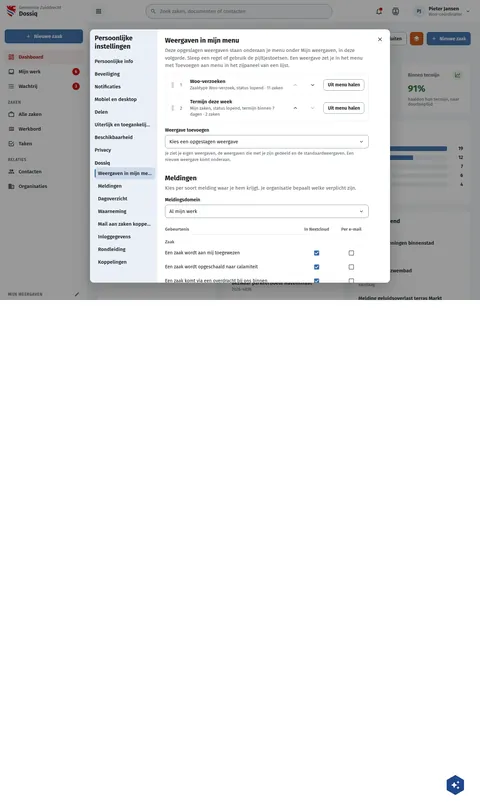
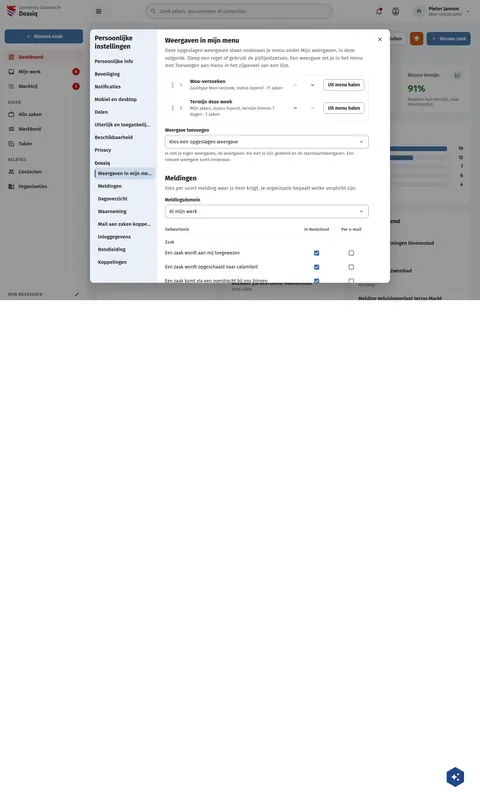
fix(screens): DqPersoonlijkeInstellingen draws pieter's Mail account chosen
Pieter now has a Mail account (id 4, pieter.jansen@zuiddrecht.example; DqZaakEmail's linked mails need it), so 'Mail aan zaken koppelen' draws it selected with the switch on, without the 'Voeg eerst een mailaccount toe' hint. Rebuilt with build.py (2421 -> 2396).

Assisted-by: ClaudeCode:claude-opus-5-5

diff --git a/preview/screens/boards/DqPersoonlijkeInstellingen.html b/preview/screens/boards/DqPersoonlijkeInstellingen.html
@@ -393,7 +393,7 @@ a{color:var(--sc-primary, #3669a5)}a:hover{color:var(--sc-primary-deep, #234a78)
             
             
             
-              <div style="display: flex; flex-direction: column; gap: 6px"><span style="font-size: 14px; font-weight: 600">Mailaccount</span><div role="combobox" aria-expanded="false" aria-disabled="True" aria-label="Mailaccount" style="display: flex; align-items: center; justify-content: space-between; gap: 8px; height: 40px; box-sizing: border-box; padding: 0 12px; border: 1px solid var(--sc-work-field, #828a95); border-radius: 8px; background: #e5e5e5; font-size: 15px"><span style="overflow: hidden; text-overflow: ellipsis; white-space: nowrap"></span><svg width="18" height="18" viewbox="0 0 24 24" fill="#3d4047" aria-hidden="true" style="flex: none;fill:var(--sc-work-text, #3d4047)"><path d="M7.41,8.58L12,13.17L16.59,8.58L18,10L12,16L6,10L7.41,8.58Z"></path></svg></div><span style="font-size: 13px; color: var(--sc-work-muted, #5e6168); line-height: 1.45">Voeg eerst een mailaccount toe in de Mail-app.</span></div>
+              <div style="display: flex; flex-direction: column; gap: 6px"><span style="font-size: 14px; font-weight: 600">Mailaccount</span><div role="combobox" aria-expanded="false" aria-disabled="False" aria-label="Mailaccount" style="display: flex; align-items: center; justify-content: space-between; gap: 8px; height: 40px; box-sizing: border-box; padding: 0 12px; border: 1px solid var(--sc-work-field, #828a95); border-radius: 8px; background: #ffffff; font-size: 15px"><span style="overflow: hidden; text-overflow: ellipsis; white-space: nowrap">Pieter Jansen (pieter.jansen@zuiddrecht.example)</span><svg width="18" height="18" viewbox="0 0 24 24" fill="#3d4047" aria-hidden="true" style="flex: none;fill:var(--sc-work-text, #3d4047)"><path d="M7.41,8.58L12,13.17L16.59,8.58L18,10L12,16L6,10L7.41,8.58Z"></path></svg></div></div>
             
             
             

diff --git a/screens-src/zuiddrecht/DqPersoonlijkeInstellingen.dc.html b/screens-src/zuiddrecht/DqPersoonlijkeInstellingen.dc.html
@@ -61,7 +61,7 @@ class Component extends DCLogic {
         { buttons: [['Waarneming registreren', '']] }
       ] },
       { name: 'Mail aan zaken koppelen', desc: 'Mail die over je zaken gaat, komt vanzelf bij de zaak.', rows: [
-        { select: 'Mailaccount', value: '', disabled: true, hint: 'Voeg eerst een mailaccount toe in de Mail-app.' },
+        { select: 'Mailaccount', value: 'Pieter Jansen (pieter.jansen@zuiddrecht.example)' },
         { switch: 'Mail van dit account aan mijn zaken koppelen', hint: 'Op zaaknummer in het onderwerp. De mail blijft in Nextcloud Mail.', on: true }
       ] },
       { name: 'Inloggegevens', desc: 'Je eigen accounts bij andere diensten. Ze staan versleuteld opgeslagen.', rows: [
